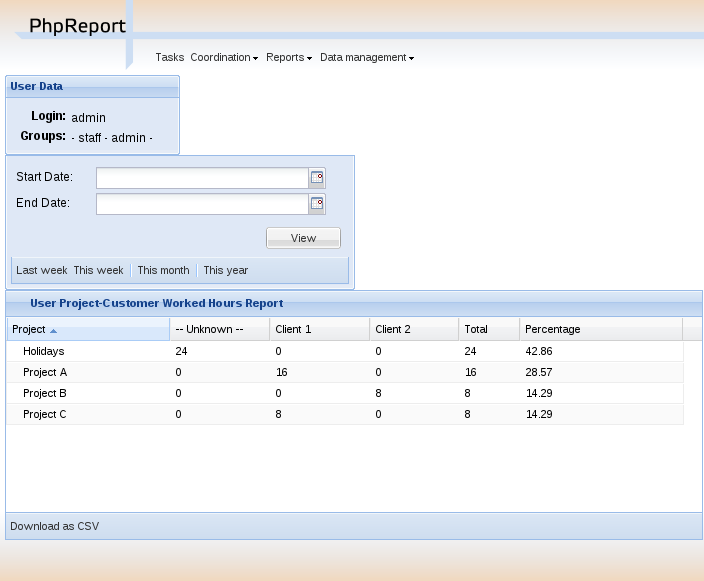
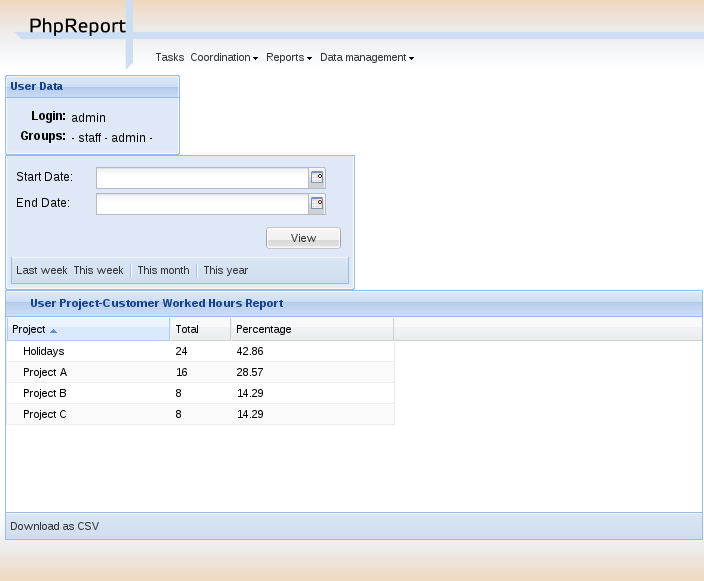
Docs: update reports section to the latest changes

diff --git a/docs/user/reports.rst b/docs/user/reports.rst
@@ -20,6 +20,11 @@ The top of the screen contains a box with all the available filters. In all
 cases, leaving a field empty means that the field won't be taken into account.
 This is the full list of available options:
 
+User
+  Filter tasks according to the user who input them. This is the only compulsory
+  field, and it defaults to the current user. User with manager permissions are
+  allowed to change it.
+
 Dates between ... and ...
   Filter tasks according to their date. You can use only the first field to get
   the tasks since a particular date or only the second field to get the tasks
@@ -31,13 +36,13 @@ Task description:
   **[not empty]** to search the tasks that contain some text or no text in that
   field.
 
-Customer:
-  You can filter the tasks assigned to a specific customer selecting one from
-  this list.
-
 Project:
   You can filter the tasks assigned to a specific project selecting one from
   this list.
+
+Customer:
+  You can filter the tasks belonging to projects assigned to a specific customer
+  selecting one from this list.
 
 Task type:
   You can filter the tasks tagged with a specific task type selecting one from
@@ -53,8 +58,11 @@ TaskStory:
   You can filter the tasks related with a specific category inside a XP tracker
   iteration selecting one from this list.
 
-Task type:
+Telework:
   You can filter the tasks tagged as telework or the opposite with this option.
+
+Onsite:
+  You can filter the tasks tagged as onsite or the opposite with this option.
 
 The results are shown in the grid in the central area of the screen; rows
 represent tasks and columns represent the different data stored in them.
@@ -71,7 +79,7 @@ User details
 .. figure:: i/user-details-screen.png
 
 This report details the work of the logged user between two dates. It shows the
-time spent in every project and customer.
+time spent in every project.
 
 In the top of the screen some basic data of the user is shown: its login and
 the groups it belongs to. Then there are two date inputs to insert the report
@@ -82,10 +90,9 @@ There are quick-access buttons for common combinations of dates at the bottom
 of the dates box.
 
 The results are shown in the grid in the central area of the screen; rows
-represent projects and columns represent workers. There are two extra columns,
-*Total* and *Percentage*; the former shows the total number of hours invested in
-a project, independently from the client (thus, it's the sum of all the client
-columns) and the latter shows the proportion of hours of one project regarding
+represent projects and columns represent *Total* and *Percentage* hours.
+The former shows the total number of hours invested in a project in the selected
+time period and the latter shows the proportion of hours of one project regarding
 all the work done by the user in the same time period.
 
 You can export the data contained in the grid to a CSV file for processing with
@@ -199,6 +206,9 @@ field. The options are:
 Project name:
   The name of the project must contain the words entered here.
 
+Customer name:
+  The customer of the project must contain the words entered here.
+
 Activation:
   Check whether the project is active or not.
 
@@ -282,7 +292,8 @@ You can export the data contained in the grid to a CSV file for processing with
 spreadsheet software, for example, using the **Download as CSV** button at the
 bottom of the grid.
 
-Finally, double-clicking on a row will open the project details page for the
+Finally, double-clicking on a row or selecting it and using the *Details* button
+above the grid will open the project details page for the
 corresponding project.
 
 Project details
@@ -292,6 +303,10 @@ Project details
 
 In this report we can see the details of a specific project, and the time devoted
 to this project split by worker and customer or story.
+
+The *Project details* menu entry is actually a landing page to select one
+project among those currently active. This report can also be reached through
+the results of the *Project evaluation* report.
 
 In the top of the screen there are different values and metrics for the project:
 
@@ -362,13 +377,22 @@ is the current date.
 There are quick-access buttons for common combinations of dates at the bottom
 of the dates box.
 
-The results are shown two grids in the bottom  area of the screen; rows
-represent users and columns represent clients in one of the grids, and stories
-in the other one. There are two extra columns,
-*Total* and *Percentage*; the former shows the total number of hours invested by
-the user in the report time period (thus, it's the sum of all the different
-client/story columns) and the latter shows the proportion of hours of one user
-regarding all the work done in the project inside the same time period.
+The results are shown in three grids at the bottom area of the screen:
+
+Worked hours report:
+  Total and percentage of hours devoted by every user to the project in the
+  selected time period.
+
+Story worked hours report:
+  Hours devoted by every user to the project in the selected time period,
+  classified by the *Story* field. It also has *Total* and *Percentage* columns
+  for every user, the former is the sum of all the different client/story
+  columns and the latter is the proportion of hours of one user regarding all
+  the work done in the project inside the same time period.
+
+Weekly worked hours report:
+  Hours devoted by every user to the project in the selected time period,
+  classified by calendar week.
 
 You can export the data contained in the grids to a CSV file for processing with
 spreadsheet software, for example, using the **Download as CSV** button at the
@@ -380,7 +404,7 @@ Projects summary
 .. figure:: i/project-summary-screen.png
 
 This report summarizes the work registered by the tool between two dates, split
-by projects and workers or clients.
+by projects and workers.
 
 In the top of the screen there are two date inputs to insert the report
 dates: if the start date is left empty, the default value is the date of the
@@ -389,16 +413,11 @@ is the current date.
 There are quick-access buttons for common combinations of dates at the bottom
 of the dates box.
 
-The report itself consists on two grids shown in two tabs.
-The first tab is the project/customer
-report, where all the hours are split by projects and customers; rows represent
-projects and columns represent customers.
-The second tab is the project/user report, where all the hours are split by
+The report itself consists on a grid where all the hours are split by
 projects and users; rows represent projects and columns represent users.
-
-In both grids there are two extra columns, *Total* and *Percentage*; the former
+There are two extra columns, *Total* and *Percentage*; the former
 shows the total number of hours devoted to the project (thus, it's the sum of
-all the different client/user columns) and the latter shows the proportion of
+all the different user columns) and the latter shows the proportion of
 hours of one project regarding the work done in all projects.
 
 You can export the data contained in the grid to a CSV file for processing with
